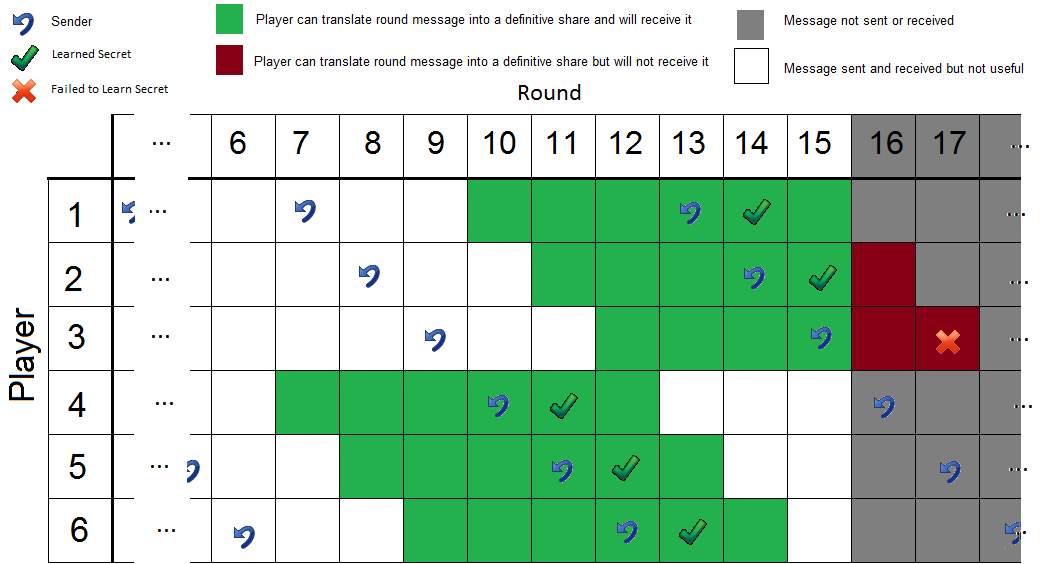
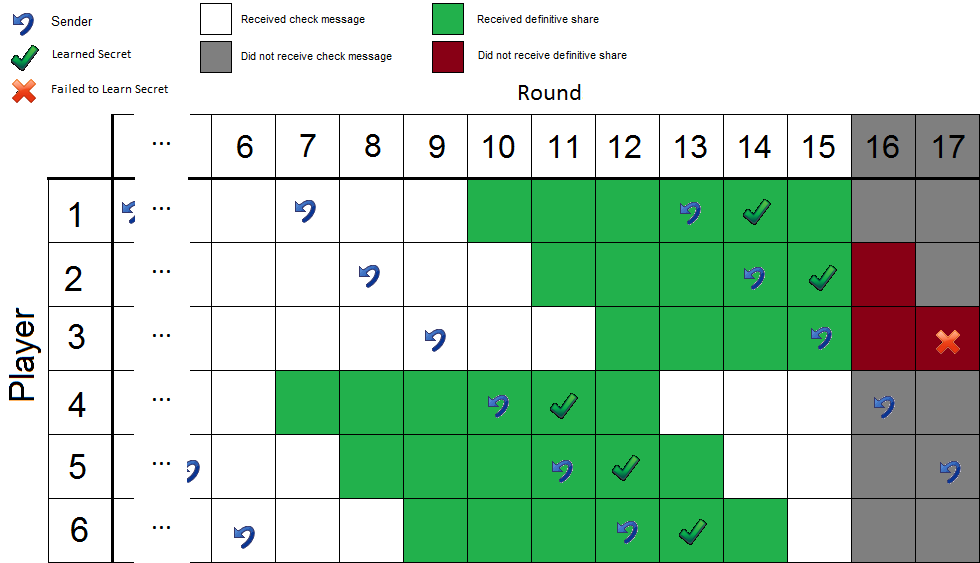
Polish

diff --git a/ThesisEclipse/src/document.tex b/ThesisEclipse/src/document.tex
@@ -24,7 +24,7 @@
 \frontmatter
 
 \begin{abstract}
-In secret sharing we are asked to split a secret into several shares in such a way that a minimum number of shares is necessary and suffucient to reconstruct the secret. Rational secret sharing considers secret sharing in the context of adversarial players who want to learn the secret but, secondarily, want to prevent other players from learning the secret. 
+In secret sharing we are asked to split a secret into several shares in such a way that a minimum number of shares is necessary and sufficient to reconstruct the secret. Rational secret sharing considers secret sharing in the context of adversarial players who want to learn the secret but, secondarily, want to prevent other players from learning the secret. 
 
 We present protocols, and bounds on the effectiveness of any protocol, for recombining secret shares in the presence of players who do not want others to learn the secret (rationality), may not want to learn the secret themselves (maliciousness), may be colluding, may have unbounded computational capacity, may be able to synchronize sends (asynchronous/synchronous broadcast), and/or may be able to recognize the secret independently (conspicuousness).
 
@@ -37,7 +37,7 @@ We propose four protocols and analyze their security against players and coaliti
 
 Secret sharing, within the context of threshold cryptography, allows some data $s$ to be split into $n$ shares such that any set of $t$-1 shares reveal no information about $s$ but any set of $t$ shares can be used to easily compute $s$. Shamir~\cite{shamir79} elegantly solved this problem in 1979 using polynomials over finite fields but did not cover the issues of recombining shares of a secret in the presence of adversarial players. Recent interest~\cite{abraham06, fuch10, gordon06, kol08, maleka08, ong09} has focused on creating secret sharing protocols resilient against adversarial players.
 
-We present four protocols for recombining secret shares, each applying to a different set of assumptions, and explores their security in the presence of adversarial and colluding players. In particular, we consider their security in the presence coalitions of players who only want to prevent other players from learning the secret (maliciousness).
+We present four protocols for recombining secret shares, each applying to a different set of assumptions, and explore their security in the presence of adversarial and colluding players. In particular, we consider their security in the presence coalitions of players who only want to prevent other players from learning the secret (maliciousness).
 
 We also show that asynchronous protocols, that do not assume the ability to synchronize sending messages (synchronous broadcast), are necessarily more vulnerable to coalitions than synchronous protocols, especially if players can independently recognize the secret (conspicuousness).
 
@@ -97,7 +97,7 @@ The protocols and analysis presented in this thesis assume the dealer is honest.
 
 Synchronous broadcast is the ability for players to send their messages (or commit to not sending messages) for a round before being able to receive any other player's message(s) for that round. Additionally, synchronous broadcast implies all players receive the same message in a timely and reliable fashion. Players can't send different messages to different players and players do not have to differentiate between a delayed message and a missing message. Synchronous broadcast is a common assumption in the literature~\cite{fuch10, gordon06, halpern04, kol08-2, kol08, maleka08, ong09}.
 
-Asynchronous broadcast provides the same reliability, timeliness, and broadcast guarantees as synchronous broadcast but does not allow players to synchronize when they send the messages. If multiple players are supposed to boardcast messages at the same time, some of them can receive messages before they send their own message. As a consequence, rational players have an incentive to wait to receive messages before sending their own message in the same round. For example, if rational players A and B are combining a secret and they believe the next round of messages could be the last round then they both want to wait to receive the other player's message before sending their own because, if it is the last round, they could then defect and learn the secret while preventing the other player from learning it.
+Asynchronous broadcast provides the same reliability, timeliness, and broadcast guarantees as synchronous broadcast but does not allow players to synchronize when they send the messages. If multiple players are supposed to broadcast messages at the same time, some of them can receive messages before they send their own message. As a consequence, rational players have an incentive to wait to receive messages before sending their own message in the same round. For example, if rational players A and B are combining a secret and they believe the next round of messages could be the last round then they both want to wait to receive the other player's message before sending their own because, if it is the last round, they could then defect and learn the secret while preventing the other player from learning it.
 
 A synchronous protocol is comprised of a sequence of rounds or turns in which the players who are supposed to broadcast a message in a round send it synchronously. An asynchronous protocol is comprised of a sequence of rounds or turns where each round or turn has a single sender, specified by the protocol, who can broadcast a message.
 
@@ -152,7 +152,7 @@ Chapter \ref{chapter:RelatedWork} covers work related to rational secret sharing
 
 In 1979 Adi Shamir published the paper ``How to Share a Secret"~\cite{shamir79}, detailing how to divide a secret into $n$ shares with a threshold $t$ such that any set of $t$ shares can easily reconstruct the secret but fewer than $t$ shares provided no information about the secret. In Shamir's scheme, shares are points on an up-to-$(t-1)$'th degree polynomial over a finite field $\mathbb{F}$. The secret is the polynomial's value at $x=0$. An up-to-$(t-1)$'th degree polynomial can be interpolated from any set of $t$ points. If only $t-1$ points are known then there is exactly one matching polynomial for each possible value at $x=0$ and so a $t$'th point can cause the secret to be any value. Thus an attacker with $t-1$ shares has no more information about the secret than an attacker with $0$ shares. The scheme is secure in the information theoretic sense.
 
-The rational secret sharing problem was introduced by Halpern and Teague in their 2004 paper ``Rational Secret Sharing and Multiparty Computation"~\cite{halpern04}. They showed that, if all players are rational, preferring to learn the secret but secondarily preferring others to not learn the secret, then there is no protocol with bounded worst-case completion time. If a protocol definitely ends after round $k$ then rational players have no incentive to send a message during round $k$, meaning there is no incentive to send a message during round $k-1$ because there will be no reciprocation in round $k$, and so forth for all preceeding rounds. The only Nash equilibrium is to defect on the first round. Therefore, when the number of rounds is bounded, rational players defect on the first round.
+The rational secret sharing problem was introduced by Halpern and Teague in their 2004 paper ``Rational Secret Sharing and Multiparty Computation"~\cite{halpern04}. They showed that, if all players are rational, preferring to learn the secret but secondarily preferring others to not learn the secret, then there is no protocol with bounded worst-case completion time. If a protocol definitely ends after round $k$ then rational players have no incentive to send a message during round $k$, meaning there is no incentive to send a message during round $k-1$ because there will be no reciprocation in round $k$, and so forth for all preceding rounds. The only Nash equilibrium is to defect on the first round. Therefore, when the number of rounds is bounded, rational players defect on the first round.
 
 Halpern and Teague present a 3-of-3 protocol with bounded \emph{expected} time. The protocol bypasses their impossibility result by terminating probabilistically. The protocol is divided into rounds started by the dealer giving the players a new set of shares for the secret. The players then essentially flip coins while satisfying the constraint that the number of coins coming up heads is not equal to 2. Players transmit their share if their coin comes up heads. The number of heads is constrained from being 2 to prevent only one player from learning the secret if only the other two players broadcast their shares. Rational players are incentivized to cooperate because when a player flips heads the other two players may have flipped tails, and not sending in that case means the other players will stop participating. Halpern and Teague also explain how to extend the coin flip protocol to other thresholds and numbers of players, except for the $2$-of-$2$ case.
 
@@ -160,7 +160,7 @@ In 2006 the paper ``Rational Secret Sharing, Revisited'' was published by S. Dov
 
 The 2006 paper ``Distributed Computing Meets Game Theory: Robust Mechanisms for Rational Secret Sharing and Multiparty Computation" by Abraham et al.~\cite{abraham06} proposes a protocol based on using secure multi-party computation (SMPC)~\cite{Yao82} to simulate a trusted third party called the ``mediator''. The protocol splits the secret, which is guaranteed to be non-zero, into a Shamir share for each player. Each round each player generates a random polynomial $p$ of degree $t-1$ satisfying $p(0) = 0$. They then perform a SMPC based on their shares of the secret and their random polynomials that returns, with probability $\alpha$, shares of the sum of their polynomials plus their shares of the secret or, with probability $1-\alpha$, shares of just the sum of their polynomials. The players then broadcast and combine the received shares. If the reconstructed value is non-zero it is accepted as the secret. Otherwise the process repeats.
 
-The paper ``Games For Exchanging Information"~\cite{kol08} by Kol and Naor in 2008 presents two protocols for rational non-colluding players with synchronous broadcast. They assume the players can't indepdently recognize the secret (inconspiciousness). They avoid cryptographic primitives, like one way functions, arguing that they implicitly bound the number of rounds and thus cause rational players to defect. As a result, their protocols do not rely on computational difficulty and work equally well for unbounded players.
+The paper ``Games For Exchanging Information"~\cite{kol08} by Kol and Naor in 2008 presents two protocols for rational non-colluding players with synchronous broadcast. They assume the players can't independently recognize the secret (inconspicuousness). They avoid cryptographic primitives, like one way functions, arguing that they implicitly bound the number of rounds and thus cause rational players to defect. As a result, their protocols do not rely on computational difficulty and work equally well for unbounded players.
 
 Their first protocol is for the 2-of-2 case. The dealer generates a ``short'' list of random entries with random length following a geometric distribution and a ``long'' list prefixed by the short list, then the secret, and afterwards is a list of random entries with a random length following the same geometric distribution as the short list's length. Each round, players send the next entry in their list. If the sent values do not match, the protocol is aborted. If one player does not send a value, it is assumed they were the short player and so the single sent value is the secret. The second protocol is for the general $t$-of-$n$ case. In this augmented protocol every player but one gets the long list, list entries include authentication information as well as $t$-of-$n$ shares of an ``indicator" flag which allows subsets of players without the short player to notice the final round, and future list entries must be unmasked using shared information from previous rounds.
 
@@ -172,9 +172,9 @@ Kol and Naor remark that their 2-of-2 protocol is not dependent on synchronous b
 
 A second paper by Kol and Noar, ``Cryptography and Game Theory: Designing Protocols for Exchanging Information''~\cite{kol08-2}, was also published in 2008. In this paper they present a synchronous protocol based on ``meaningful/meaningless" encryption and secure multi party computation (SMPC). We will refer to this protocol as ``Kol and Noar's SMPC protocol" to distinguish it from the previously discussed protocol. Meaningful/meaningless encryption schemes have the special property that some public keys yield ``meaningless" ciphertexts that do not have a decryption (even an unbounded opponent can't determine the plaintext that produced the ciphertext). Determining if a public key is meaningless requires the associated private key. 
 
-Kol and Noar's SMPC protocol is divided into rounds. Each round the players use SMPC to generate a random seed used to derive a public key, which may be meaningless, a perfectly binding commitment to the seed, and one share of the seed for each player. Each player receives their share of the seed, the commitment to the seed, and the public key. Each player then encrypts their share of the secret, using the public key, and broadcasts the encrypted share. The players then verify that the received shares are correct using another SMPC. If the verification is succesful then the players simultaneously broadcast their shares of the seed, allowing them to recover the private key and determine if the public key was meaningful. If the public key was meaningful they can recover the secret. If the public key was meaningless, the process is repeated.
+Kol and Noar's SMPC protocol is divided into rounds. Each round the players use SMPC to generate a random seed used to derive a public key, which may be meaningless, a perfectly binding commitment to the seed, and one share of the seed for each player. Each player receives their share of the seed, the commitment to the seed, and the public key. Each player then encrypts their share of the secret, using the public key, and broadcasts the encrypted share. The players then verify that the received shares are correct using another SMPC. If the verification is successful then the players simultaneously broadcast their shares of the seed, allowing them to recover the private key and determine if the public key was meaningful. If the public key was meaningful they can recover the secret. If the public key was meaningless, the process is repeated.
 
-Maleka S and Shareef's 2008 paper ``The Deterministic Protocol for Rational Secret Sharing''~\cite{MalekaS_08} presents a protocol called TRSS (Two Round Rational Secret Sharing) that is distinct from, but similar to, Kol and Naor's protocol. In TRSS the dealer splits the secret value into $n$ Shamir shares with a threshold of $t$, one for each player, but then further splits each share into $d$ or $d+1$ sub Shamir shares, with the same $d$ or $d+1$ threshold, where $d$ is a random value. Players are given their $d$ or $d+1$ sub-shares, along with authentication information, and each round they synchronously broadcast one of the authenticated sub-shares until they have no more to send. Players with $d$ sub-shares and players with $d+1$ sub-shares are similar to the short player and long players in Kol and Noar's protocol. Players cooperate, even when they have only one sub-share remaining, because of the possibility that they are a short player. On the definitive round, $d+1$, the players with $d+1$ sub-shares broadcast their final sub-share while the players with $d$ sub-shares do not broadcast a message. The players with $d+1$ shares learn that the definitive round is occuring, due to the other players not broadcast, and the players with $d$ shares learn the final sub-shares. TRSS does not account for coalitions, who can detect the final round when they contain both a short and long player, or malicious players, who can trick the short players into believing the definitive round has occured in round $d$ instead of round $d+1$. TRSS also has the issue that, if players' payoff for exclusively learning the secret times the probability of being a short player is larger than the payoff for everyone learning the secret, then players are not incentivized to send their final sub-share and will defect one round early, removing the Nash equilibrium.
+Maleka S and Shareef's 2008 paper ``The Deterministic Protocol for Rational Secret Sharing''~\cite{MalekaS_08} presents a protocol called TRSS (Two Round Rational Secret Sharing) that is distinct from, but similar to, Kol and Naor's protocol. In TRSS the dealer splits the secret value into $n$ Shamir shares with a threshold of $t$, one for each player, but then further splits each share into $d$ or $d+1$ sub Shamir shares, with the same $d$ or $d+1$ threshold, where $d$ is a random value. Players are given their $d$ or $d+1$ sub-shares, along with authentication information, and each round they synchronously broadcast one of the authenticated sub-shares until they have no more to send. Players with $d$ sub-shares and players with $d+1$ sub-shares are similar to the short player and long players in Kol and Noar's protocol. Players cooperate, even when they have only one sub-share remaining, because of the possibility that they are a short player. On the definitive round, $d+1$, the players with $d+1$ sub-shares broadcast their final sub-share while the players with $d$ sub-shares do not broadcast a message. The players with $d+1$ shares learn that the definitive round is occurring, due to the other players not broadcast, and the players with $d$ shares learn the final sub-shares. TRSS does not account for coalitions, who can detect the final round when they contain both a short and long player, or malicious players, who can trick the short players into believing the definitive round has occurred in round $d$ instead of round $d+1$. TRSS also has the issue that, if players' payoff for exclusively learning the secret times the probability of being a short player is larger than the payoff for everyone learning the secret, then players are not incentivized to send their final sub-share and will defect one round early, removing the Nash equilibrium.
 
 TRSS is augmented with the ability to verify the dealer by constructing a zero knowledge proof by a 2010 paper ``Publicly Verifiable Rational Secret Sharing'' by Yongquan et al.~\cite{yongquan10}.
 
@@ -196,7 +196,7 @@ William K. Moses Jr. and C. Pandu Rangan published the paper ``Rational Secret S
 
 Moses et al.'s protocol is not resilient or $\epsilon$-resilient to coalitions of size $k$ or larger, although it is resilient to coalitions up to size $k-1$ as claimed. This problem extends to individual players when $k=1$. A set of colluding players $C$ satisfying $|C| \geq k$ can precompute the value of $r$ in each round, because they have the $k$ necessary shares. Depending on the order in which stage 1 shares are broadcast, the coalition may have $t$ shares of $s \oplus r$ before the other players. In the worst case the coalition will learn the value of $s \oplus r$ so early that it doesn't have to send any shares in stage 1. As a result, the remaining players may not learn the secret. For example, suppose $k=|C|=2, t=4, n=5$ and it is the definitive round. The short player and the first two senders happen to not be in the coalition. After the first two senders broadcasts their share of $s \oplus r$ the coalition will have 4 shares from stage 1 and 2 shares from stage 2, meeting both stages' relevant thresholds. The coalition can then compute the secret, and the associated boolean indicator to confirm that it is the definitive round, and stop participating. The remaining 3 players do not have the 4 shares required to complete stage 1 and therefore don't learn the secret. The probability of coalitions of size $k$ or more exclusively learning the secret in this way can't be bounded towards 0 so the protocol is not resilient or $\epsilon$-resilient to coalitions of size $k$ or more.
 
-Moses et al.'s protocol can be improved upon by compressing it to a single round, pushing it closer to the single round protocol by Ong et al.\cite{ong09} that it is partially based on, and increasing the threshold by 1 in stage 2. Using only a single round is possible because rational players don't need to be incentivized into cooperating in stage 2. The increased threshold is possible because there is no need to prevent players from knowing the definitive round by including a short player. In the modified protocol players are each given an authenticated share for the value $s \oplus r$, where $s$ is the secret and $r$ is a random value, with a threshold of $t$. Each player is also given an authenticated share for the value $r$ with a threshold of $k+1$. There is no short player and no boolean indicator. The players first each broadcast their share for $s \oplus r$ (stage 1). If at least $t$ players broadcasted their share for $s \oplus r$ then the players each broadcast their share for $r$ (stage 2). If there are $k+1$ honest players participating then, given that stage 1 completes succesfully due to at least $t$ players broadcasting their share of $s \oplus r$, all players will learn the secret at the end of stage 2 because they will have the $k+1$ shares necessary to reconstruct $r$ due to the $k+1$ honest players broadcasting their shares. If there are fewer than $t$ players participating then stage 1 can't complete. This modification of the protocol restores resilience to coalitions of size $k$ (due to the increased threshold in stage 2). The probability of larger coalitions exclusively learning the secret is decreased, but still bounded away from 0.
+Moses et al.'s protocol can be improved upon by compressing it to a single round, pushing it closer to the single round protocol by Ong et al.\cite{ong09} that it is partially based on, and increasing the threshold by 1 in stage 2. Using only a single round is possible because rational players don't need to be incentivized into cooperating in stage 2. The increased threshold is possible because there is no need to prevent players from knowing the definitive round by including a short player. In the modified protocol players are each given an authenticated share for the value $s \oplus r$, where $s$ is the secret and $r$ is a random value, with a threshold of $t$. Each player is also given an authenticated share for the value $r$ with a threshold of $k+1$. There is no short player and no boolean indicator. The players first each broadcast their share for $s \oplus r$ (stage 1). If at least $t$ players broadcasted their share for $s \oplus r$ then the players each broadcast their share for $r$ (stage 2). If there are $k+1$ honest players participating then, given that stage 1 completes successfully due to at least $t$ players broadcasting their share of $s \oplus r$, all players will learn the secret at the end of stage 2 because they will have the $k+1$ shares necessary to reconstruct $r$ due to the $k+1$ honest players broadcasting their shares. If there are fewer than $t$ players participating then stage 1 can't complete. This modification of the protocol restores resilience to coalitions of size $k$ (due to the increased threshold in stage 2). The probability of larger coalitions exclusively learning the secret is decreased, but still bounded away from 0.
 
 Several cryptographic primitives are useful for efficient rational secret sharing and used in this paper. Verifiable random functions (VRFs)~\cite{dis05, micali99} allow a sequence of verifiable, but unpredictable, messages to be created from a small seed. Bit commitment~\cite{Damg02, naor91} allows an entity to ``commit" to a value, without revealing the value, by publishing a ``commitment" derived from the value. When the value is revealed, it can be compared against the commitment to verify that it is correct. In order for a bit commitment scheme to be secure it must be difficult to find values matching a given commitment and difficult to find values with the same commitment. Some commitment schemes are ``perfectly binding"~\cite{Damg02}, meaning each commitment matches exactly one value (no false positives). This thesis uses bit commitment to allow players to recognize the secret and verifiable random functions to allow the dealer to securely orchestrate when the secret is revealed. Examples will use unsalted SHA-1~\cite{sha08} for bit commitment and unpadded RSA~\cite{rsa78} for verifiable random functions but these basic primitives are used \emph{for their simplicity, not their security}.
 
@@ -206,7 +206,7 @@ Several cryptographic primitives are useful for efficient rational secret sharin
 \chapter{Synchronous Broadcast}
 \label{chapter:Synchronous}
 
-Synchronous broadcast allows players to synchronize sendings messages during a round $r$ such that a player can't receive messages from other players before sending their own messages for round $r$. This allows simpler and more efficient protocols than with asynchronous broadcast.
+Synchronous broadcast allows players to synchronize sending messages during a round $r$ such that a player can't receive messages from other players before sending their own messages for round $r$. This allows simpler and more efficient protocols than with asynchronous broadcast.
 
 This chapter presents two synchronous protocols: one for bounded opponents and one for unbounded opponents. Both protocols give good security guarantees. The protocol for bounded opponents is coalition immune. The protocol for unbounded opponents is almost coalition immune except for a pathological case whose probability can be made arbitrarily small.
 
@@ -344,7 +344,7 @@ During a round a player has three choices: send the right message, send a fake m
 
 A player who has been marked non-cooperating by all cooperating players is effectively absent from the protocol. They are sent no messages, the messages they send are discarded, and being marked as non-cooperating carries into future rounds. All future rounds will progress as if the player was absent.
 
-Malicious players will avoid sending the right message during the definitive round, because doing so increases the number of definitive round shares the other players have and makes it more likely they will learn the secret. Malicious players who can predict the definitive round will send no message or a fake message on or before the definitive round. Malicious players who can't predict the definitive round will immediatly send no message or a fake message in order to avoid the risk of sending the right message during the definitive round. In all cases their defection is detected by the cooperating players with arbitrarily high probability and their effect on the result of the protocol becomes equivalent to the effect of absent players.
+Malicious players will avoid sending the right message during the definitive round, because doing so increases the number of definitive round shares the other players have and makes it more likely they will learn the secret. Malicious players who can predict the definitive round will send no message or a fake message on or before the definitive round. Malicious players who can't predict the definitive round will immediately send no message or a fake message in order to avoid the risk of sending the right message during the definitive round. In all cases their defection is detected by the cooperating players with arbitrarily high probability and their effect on the result of the protocol becomes equivalent to the effect of absent players.
 
 Therefore, with arbitrarily high probability, a malicious player or coalition's effect on the outcome of the protocol is equivalent to that of an absent player. That is the definition of malicious coalition immunity from Section~\ref{Def:Immunity}.
 \end{proof}
@@ -369,7 +369,7 @@ The coalition always does better by crossing the threshold next round instead of
 
 \subsection{Summary}
 
-SBP has reasonable performance, coalition immunity, and ensures with arbitrarily high probability that, when the number of rational players exceeds the threshold, the secret is learned. SBP is derived from Fuchsbauer et al's protocol~\cite{fuch10}, with the notable improvement being explicit immunity against malicious coalitions. We anticipate future improvements, within this case, to be limited to performance.
+SBP has reasonable performance, coalition immunity, and ensures with arbitrarily high probability that, when the number of rational players exceeds the threshold, the secret is learned. SBP is derived from Fuchsbauer et al.'s protocol~\cite{fuch10}, with the notable improvement being explicit immunity against malicious coalitions. We anticipate future improvements, within this case, to be limited to performance.
 
 
 
@@ -383,7 +383,7 @@ Kol and Noar~\cite{kol08} show that unbounded players require shares with unboun
 \subsection{Creating Verifiable Messages for Unbounded Opponents}
 \label{sec:vermes}
 
-Because unbounded opponents can break the security of verifiable random functions by using brute force attacks, we need a different message verification scheme that is ``perfectly secure" (secure in the information theoretic sense). Each receiver must be able to detect forged messages with high probability, even if the sender colludes with other receivers. No receiver should be able to pre-emptively determine the messages they will receive, even when colluding with other receivers. A verification scheme by Rivest~\cite{rivest99} satifies these properties.
+Because unbounded opponents can break the security of verifiable random functions by using brute force attacks, we need a different message verification scheme that is ``perfectly secure" (secure in the information theoretic sense). Each receiver must be able to detect forged messages with high probability, even if the sender colludes with other receivers. No receiver should be able to pre-emptively determine the messages they will receive, even when colluding with other receivers. A verification scheme by Rivest~\cite{rivest99} satisfies these properties.
 
 In Rivest's scheme the dealer signs each message by transforming it into a line, over a finite field, with slope equal to the original message and a random y-intercept. The line is given to the sender of the message. To allow verification of the message, the dealer reveals a random ``check'' point on the line to the receiver. See Algorithms \ref{alg:CreatingVerifiableMessageForUnbounded} and \ref{alg:VerifyMessageForUnbounded} for more information on creating and verifying messages.
 
@@ -424,7 +424,7 @@ The sender can't undetectably forge messages because changing the message/slope 
 
 Like SBP, SUIP is based on a sequence of check rounds followed by a definitive round. SUIP's round messages are all specified in advance by the dealer. Each player has a list of messages to send, one per round. A message is composed of a $t$-of-$n$ share for the round secret, which is the true secret on the definitive round and random on other rounds, and accompanying $t$-of-$n$ shares for several round indicators, which are all 0 on the definitive round and random on other rounds. Players recognize the definitive round, and thus learn the secret is the round secret, by noticing when all of the round indicators are 0.
 
-The dealer generates lists with distinct random lengths by starting from a minimum list length $\beta$, creating a list of that length with probability $\gamma$, called the marginal list termination probability, then repeating with the next highest length until $n$ list lengths have been chosen. Each list entries is a message with a round share, indicator shares, and verifiers and signatures to authenticate the shares. Each round the definitive round occurs with marginal termination probability $\alpha$, taking into account that after the shortest list has ended the definitive round must occur immediatly.
+The dealer generates lists with distinct random lengths by starting from a minimum list length $\beta$, creating a list of that length with probability $\gamma$, called the marginal list termination probability, then repeating with the next highest length until $n$ list lengths have been chosen. Each list entry is a message with a round share, indicator shares, and verifiers and signatures to authenticate the shares. Each round the definitive round occurs with marginal termination probability $\alpha$, taking into account that after the shortest list has ended the definitive round must occur immediately.
 
 The dealer gives a ``short message'' to all players that may contain a masked message based on how the protocol terminates. SUIP can terminate in two ways, based on the lengths of the lists of messages and the definitive round. Either the definitive round occurs before any of the players run out of messages to send, hereafter referred to as the ``normal case'', or it occurs on the round after a single player has run out of messages to send, hereafter referred to as the ``short case". The player who runs out of messages in the short case is called the ``short player''. The short message is the message that would have been sent by the short player, if they had not run out of messages, masked by adding its contents to the short player's previous message to ensure it can't be used when the short player is not participating.
 
@@ -557,7 +557,7 @@ SUIP is relatively expensive to run, especially for the dealer, who has to simul
 
 Because it is designed for potentially unbounded players, SUIP is expensive compared to its bounded variant SBP. SUIP's share sizes increase linearly with the expected number of rounds and indicators and quadratically with the number of players. By comparison, SBP's share sizes increase only with the number of players and only linearly in that respect. Additionally, unlike in SUIP, most of the information in SBP's shares is common to all the shares. The dealer costs in SUIP also scale poorly, because the dealer effectively simulates every player's interaction with every other player for every round, whereas in SBP the dealer can handle each player individually and can ignore non-definitive rounds.
 
-Although SUIP is not immune to coalitions, it can be made arbitrarily close to immune to coalitions by adjusting the number of indicators $\omega$, marginal definitive round probability $\alpha$, minimum list length $\beta$, and marginal list termination probability $\gamma$. Given any desired probability $p$ of success satisfying $p < 1$, we can choose values for $\omega$, $\alpha$, $\beta$, and $\gamma$ that ensure running SUIP with at least $t$ rational players results in all rational players learning the secret with probability greater than $p$. Lemma~\ref{Lem:SUIP:RatNashCoop} shows that cooperating until the short case is a Nash equilibrium if $\alpha$ is small enough. Lemmas~\ref{Lem:SUIP:ShortPlayerCoalitionsPremptivelyKnowShortRound}, \ref{Lem:SUIP:MaxSizeCoalitionsPremptivelyKnowShortRound}, \ref{Lem:SUIP:MinimumThresholdAndShortCaseMeansNoOneLearnsSecret}, \ref{Lem:SUIP:ShortPlayerMayLearnSecretExclusively}, \ref{Lem:SUIP:AllCoalitionsTempted} and \ref{Lem:SUIP:MaxSizeCoalitionsTemptedMore}, cover the various ways the short case allows players to misbehave and Lemmas~\ref{Lem:SUIP:NoPlayerLearningSecretIsReducible}, \ref{Lem:SUIP:ShortPlayerLearningSecretExclusivelyIsReducible}, and \ref{Lem:SUIP:HighTemptationAvoidable} show adjusting $\beta$ and $\gamma$ makes these problems sufficiently unlikely. Finally, Lemma~\ref{Lem:SUIP:MaliciousImmune} proves SUIP is immune to malicious coalitions if $\omega$ is large enough.
+Although SUIP is not immune to coalitions, it can be made arbitrarily close to immune to coalitions by adjusting the number of indicators $\omega$, marginal definitive round probability $\alpha$, minimum list length $\beta$, and marginal list termination probability $\gamma$. Given any desired probability $p$ of success satisfying $p < 1$, we can choose values for $\omega$, $\alpha$, $\beta$, and $\gamma$ that ensure running SUIP with at least $t$ rational players results in all rational players learning the secret with probability greater than $p$. Lemma~\ref{Lem:SUIP:RatNashCoop} shows that cooperating until the short case is a Nash equilibrium if $\alpha$ is small enough. Lemmas~\ref{Lem:SUIP:ShortPlayerCoalitionsPremptivelyKnowShortRound}, \ref{Lem:SUIP:MaxSizeCoalitionsPremptivelyKnowShortRound}, \ref{Lem:SUIP:MinimumThresholdAndShortCaseMeansNoOneLearnsSecret}, \ref{Lem:SUIP:ShortPlayerMayLearnSecretExclusively}, \ref{Lem:SUIP:AllCoalitionsTempted} and \ref{Lem:SUIP:MaxSizeCoalitionsTemptedMore} cover the various ways the short case allows players to misbehave and Lemmas~\ref{Lem:SUIP:NoPlayerLearningSecretIsReducible}, \ref{Lem:SUIP:ShortPlayerLearningSecretExclusivelyIsReducible}, and \ref{Lem:SUIP:HighTemptationAvoidable} show adjusting $\beta$ and $\gamma$ makes these problems sufficiently unlikely. Finally, Lemma~\ref{Lem:SUIP:MaliciousImmune} proves SUIP is immune to malicious coalitions if $\omega$ is large enough.
 
 \begin{lemma}\label{Lem:SUIP:RatNashCoop}Given a small enough $\alpha$, cooperating until the short round is a Nash equilibrium for rational players and rational coalitions.\end{lemma}
 
@@ -701,7 +701,7 @@ For practical cases ($|F| \geq 2^{256}, n \leq 200, \alpha \geq \frac{1}{100}, p
 
 \subsection{Observation and Conjecture about the Short Case's Consequences and Necessity}
 
-The primary complicating factor in running and analyzing SUIP is the existence of the short case. In particular, it is the reason the protocol must have some probability of failing in the presence of rational players who want to cooperate until they learn the secret. A protocol with a short case can't be immune to rational coalitions, although it can be aribtrarily close.
+The primary complicating factor in running and analyzing SUIP is the existence of the short case. In particular, it is the reason the protocol must have some probability of failing in the presence of rational players who want to cooperate until they learn the secret. A protocol with a short case can't be immune to rational coalitions, although it can be arbitrarily close.
 
 The short case has particularly high costs for the $t=n=2$ case. Every 2-of-2 protocol with a short case must choose between everyone learning the secret in the short case or not learning the wrong secret when the other player is malicious. SUIP prevents a malicious player from convincing the other player to accept the wrong secret. Kohl and Noar's 2-of-2 protocol~\cite{kol08} guarantees two rational players will both learn the secret. The trade-off is a consequence of deciding whether or not, when a player appears to defect, the remaining player can check if the short case is occurring. If the remaining player can check for the short case then they can do so before the definitive round starts, learn the secret, stop participating, and thus prevent the short player from learning the secret. If the remaining player can't check for the short case then they can't distinguish between the short case occurring and a malicious player defecting on a non-definitive round.
 
@@ -729,7 +729,7 @@ In practice, communication is not synchronous. The internet, for example, is bas
 
 Asynchronous broadcast is like synchronous broadcast, except it does not allow for senders to synchronize their sends. As a consequence, rational players, who have an incentive to wait to receive messages before sending their messages, will tend to deadlock waiting for their rational peers unless the protocol specifies a message ordering. Asynchronous broadcast still assumes reliability, timeliness, and consistency across receivers. If a sender chooses to send a message then all receivers will receive the same message in bounded time. If a sender chooses to send no message, then all receivers will know, in bounded time, no message was sent.
 
-This chapter presents consequences of using asynchronous broadcast instead of synchronous broadcast for rational secret sharing. It also presents two asynchronous protocols: one for conspicuous secrets and one for inconspicous secrets.
+This chapter presents consequences of using asynchronous broadcast instead of synchronous broadcast for rational secret sharing. It also presents two asynchronous protocols: one for conspicuous secrets and one for inconspicuous secrets.
 
 \section{Limitations of all Asynchronous Rational Secret Sharing Protocols}
 \label{Sec:AsympWeak}
@@ -749,7 +749,7 @@ We will prove this result by contradiction. Assume all players learn the secret.
 
 The protocol is divided into rounds with a single sender per round, by definition from Section~\ref{Def:Broadcast}. Let $r$ be the first round such that, at the end of round $r$, all players are guaranteed to eventually know the secret even if the others stop cooperating. Let $s$ be the expected sender of round $r$'s message.
 
-Because the secret is conspicuous, players know whether or not they have the secret. Therefore a player can simulate the other players defecting in order to learn the secret as soon as they are  guaranteed to eventually know the secret. A player can't have a conspicuous secret and not know it. The sender $s$ either has the secret before round $r$ and knows about having it or doesn't have the secret before round $r$ and knows about not having it.
+Because the secret is conspicuous, players know whether or not they have the secret. Therefore a player can simulate the other players defecting in order to learn the secret as soon as they are guaranteed to eventually know the secret. A player can't have a conspicuous secret and not know it. The sender $s$ either has the secret before round $r$ and knows about having it or doesn't have the secret before round $r$ and knows about not having it.
 
 If $s$ doesn't have the secret before round $r$ then, because $s$ received no information during round $r$ because $s$ was the sole sender, $s$ still does not know the secret after round $r$. But all players know the secret after round $r$, so $s$ must have known the secret before round $r$.
 
@@ -958,9 +958,9 @@ There appears to be significant room for improvement over ABCP. For example, we 
 \section{Asynchronous Protocol for Inconspicuous Secrets and Bounded Opponents}
 \label{Sec:ABIP}
 
-A protocol for inconspicuous secrets can do at least as well as a protocol for conspicuous secrets, by making the secret conspicuous in the first step. ABCP, the asynchronous bounded conspicuous protocol presented in Section~\ref{Sec:ABCP} has the downside of requiring sacrificial players. This requirement is, as shown in Lemma~\ref{Lem:Async:ConspicuousMustSacrifice}, a necessary property of any asynchronous protocol for conspicous secrets that allows more than $\lceil \frac{n}{2} \rceil$ players to learn the secret.
+A protocol for inconspicuous secrets can do at least as well as a protocol for conspicuous secrets, by making the secret conspicuous in the first step. ABCP, the asynchronous bounded conspicuous protocol presented in Section~\ref{Sec:ABCP} has the downside of requiring sacrificial players. This requirement is, as shown in Lemma~\ref{Lem:Async:ConspicuousMustSacrifice}, a necessary property of any asynchronous protocol for conspicuous secrets that allows more than $\lceil \frac{n}{2} \rceil$ players to learn the secret.
 
-This section presents a protocol, named ``ABIP'' (asynchronous bounded inconspicuous protocol), that does not require sacrificial players. It answers the question, raised by Lemma~\ref{Lem:Async:ConspicuousMustSacrifice}, of whether or not all asynchronous protocols, instead of just those for conspicous secrets, require sacrificing players.
+This section presents a protocol, named ``ABIP'' (asynchronous bounded inconspicuous protocol), that does not require sacrificial players. It answers the question, raised by Lemma~\ref{Lem:Async:ConspicuousMustSacrifice}, of whether or not all asynchronous protocols, instead of just those for conspicuous secrets, require sacrificing players.
 
 
 \subsection{Overview}
